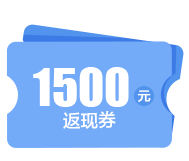
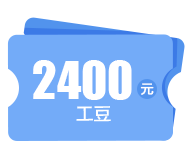
修改玩转攻略页面。

Changed region(s): [[0.0265, 0.0932, 0.9788, 0.9317]]

diff --git a/apps/web/guide-cookbook/react/index.jsx b/apps/web/guide-cookbook/react/index.jsx
@@ -98,26 +98,24 @@ var Content = React.createClass({
                                 <div className="list welfare-list">
                                     <ul>
                                         <li>
-                                            <p className="title-text">注册成功即可获得</p>
-                                            <p className="info-text">120元返现券礼包</p>
+                                            <p className="title-text">注册成功即可获得<span className="info-text">120元返现券礼包</span></p>
                                             <div className="img">
                                                 <img src="images/welfare-1.png"/>
                                             </div>
                                         </li>
-                                        <li>
-                                            <p className="title-text">新工友可投</p>
-                                            <p className="info-text">新手专享标</p>
+                                        <li className="last-li">
+                                            <p className="title-text">新工友可投 <span className="info-text">新手专享标</span></p>
                                             <div className="img">
                                                 <img src="images/welfare-2.png"/>
                                             </div>
                                         </li>
-                                        <li className="last-li">
-                                            <p className="title-text">首投满5000及以上即可获得</p>
-                                            <p className="info-text">最高150元返现券礼包</p>
-                                            <div className="img">
-                                                <img src="images/welfare-3.png"/>
-                                            </div>
-                                        </li>
+                                        {/*<li className="last-li">*/}
+                                            {/*<p className="title-text">首投满5000及以上即可获得</p>*/}
+                                            {/*<p className="info-text">最高150元返现券礼包</p>*/}
+                                            {/*<div className="img">*/}
+                                                {/*<img src="images/welfare-3.png"/>*/}
+                                            {/*</div>*/}
+                                        {/*</li>*/}
                                     </ul>
                                 </div>
 
@@ -125,9 +123,9 @@ var Content = React.createClass({
                                     <div className="prompt-text">
                                         <div className="text-block">
                                             <h3 className="title-text">如何才能正确的投资赚更多的钱呢？</h3>
-                                            <p className="text">新手必学 → 首投2千稳赚50元（20元新手返现现金+30元首投返现券奖励）！</p>
-                                            <p className="text">想赚更多 → 首投5千立获200元（20元+30元新手返现现金，再送150元返现券礼包哟~）</p>
-                                            <p className="text">最高挑战 → 首投1.2万新手120返现全到手，再投1.5万首投150返现立即领走，加收益小1千啦！</p>
+                                            <p className="text">新手必学 → 首投2千稳赚20元（20元新手返现现金）！</p>
+                                            <p className="text">想赚更多 → 首投1万立获100元（100元新手返现现金）！</p>
+                                            <p className="text">最高挑战 → 首投1.2万新手120返现全到手！</p>
                                         </div>
 
                                         <div className="pop-arrow-icon"></div>
@@ -160,18 +158,18 @@ var Content = React.createClass({
                             <div className="info-block">
                                 <div className="list gift-list">
                                     <ul>
+                                        {/*<li>*/}
+                                            {/*<p className="title-text">好友填邀请码注册并首投满<em className="c-629df9">5000</em>，送邀请人*/}
+                                            {/*</p>*/}
+                                            {/*<div className="img">*/}
+                                                {/*<img src="images/gift-1.png"/>*/}
+                                            {/*</div>*/}
+                                        {/*</li>*/}
                                         <li>
-                                            <p className="title-text">好友填邀请码注册并首投满<em className="c-629df9">5000</em>，送邀请人
+                                            <p className="title-text">好友达到<em className="c-629df9">VIP1及以上</em>，最高再送邀请人
                                             </p>
                                             <div className="img">
-                                                <img src="images/gift-1.png"/>
-                                            </div>
-                                        </li>
-                                        <li>
-                                            <p className="title-text">好友达到<em className="c-629df9">VIP2及以上</em>，最高再送邀请人
-                                            </p>
-                                            <div className="img">
-                                                <img src="images/gift-2.png"/>
+                                                <img src="images/gift-2.png" style={{'padding-top':'8px'}}/>
                                             </div>
                                         </li>
                                         <li className="last-li">
@@ -188,9 +186,9 @@ var Content = React.createClass({
                                     <div className="prompt-text">
                                         <div className="text-block">
                                             <p className="text">温馨提示：</p>
-                                            <p className="text">邀请了N名好友首投5000元，邀请人获50*N元返现券，邀越多赚越多，看看你人脉有多广！</p>
-                                            <p className="text">
-                                                好友达VIP2及以上所赠返现券在好友注册后的第30天10:00（注册当天算第1天）,按好友当时的等级发放。</p>
+                                            <p className="text">好友达VIP1及以上所赠工豆在好友注册的30天内（注册当天算第1天），按好友当时的等级实时发放。</p>
+                                            {/*<p className="text">*/}
+                                                {/*好友达VIP2及以上所赠返现券在好友注册后的第30天10:00（注册当天算第1天）,按好友当时的等级发放。</p>*/}
                                             <p className="text">相应好友投资返利可去 <a
                                                 href="http://www.9888.cn/factoryCode/info.shtml" target="_blank"
                                                 className="c-629df9">我的工场>工场码</a> 中查看。</p>
@@ -321,7 +319,7 @@ var Content = React.createClass({
 
                                     <div className="list-title">
                                         <h3 className="text">2.工友可用兑换券换礼物</h3>
-                                        <p className="">兑换券是领取工场促销活动礼品的小凭证，可以自主在工豆商城中兑换虚拟或实物礼品。可在 <a
+                                        <p className="" style={{'font-size':'14px'}}>兑换券是领取工场促销活动礼品的小凭证，可以自主在工豆商城中兑换虚拟或实物礼品。可在 <a
                                             href="http://mall.9888.cn/member/ticket.shtm" target="_blank"
                                             className="c-629df9">我的商城>我的兑换券</a> 中查看。</p>
                                     </div>

diff --git a/apps/web/guide-cookbook/less/index.less b/apps/web/guide-cookbook/less/index.less
@@ -357,8 +357,8 @@
                 .gift-prompt {
                     .prompt-text {
                         .text-block {
-                            height: 112px;
-                            padding-top: 20px;
+                            height: 102px;
+                            padding-top: 30px;
                         }
                     }
 
@@ -535,14 +535,14 @@
     right: -2px;
     top: 10%;
     z-index: 1000;
-    
+
     a {
         display: block;
         width: 22px;
         height: 72px;
         padding: 14px 10px;
         margin: 0 0 5px 0;
-    
+
         line-height: 18px;
         text-align: center;
         background-color: #f76d86;
@@ -629,23 +629,25 @@
                 ul {
                     li {
                         float: left;
-                        width: 300px;
+                        width: 445px;
                         height: 182px;
-                        margin: 0 10px 0 0 ;
+                        margin: 0 30px 0 0 ;
                         padding: 18px 0;
                         list-style: none;
                         text-align: center;
                         background-color: #f3f6fe;
-
+                        font-size: 14px;
                         .title-text {
                             line-height: 22px;
                             color: #4b4c4d;
+                            margin-bottom: 5px;
                         }
 
                         .info-text {
                             margin-top: 5px;
                             line-height: 22px;
                             color: #629df9;
+                            padding-left: 5px;
                         }
                     }
 
@@ -680,6 +682,7 @@
                         .text {
                             line-height: 24px;
                             color: #485277;
+                          font-size: 14px;
                         }
                     }
 
